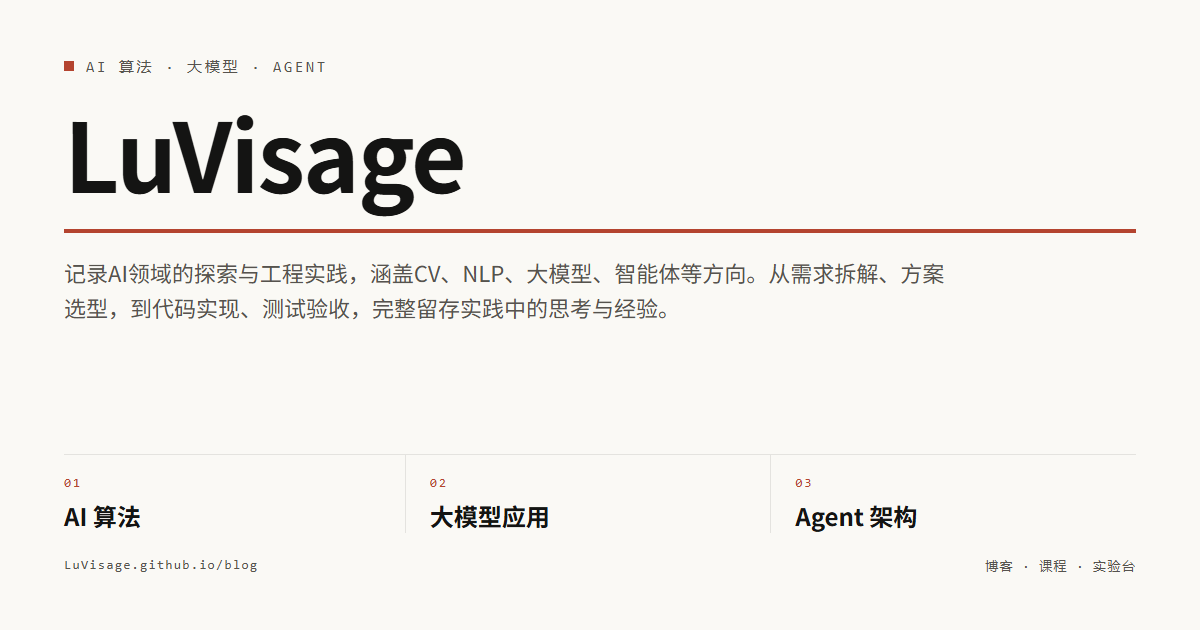
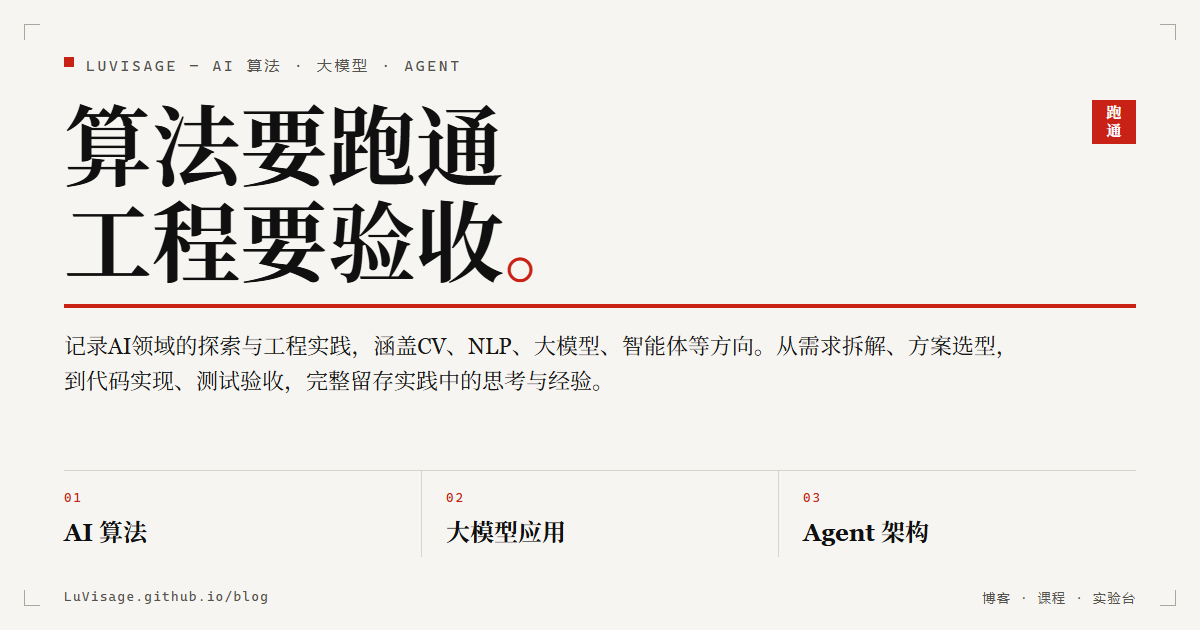
OG 分享卡换嗓统一：og-card 同源产出纸面红嗓排字 png+svg（巨字信条/红规/跑通印），暗色黑带上下墨线收边与 footer 同节奏（§11.59）

diff --git a/app/globals.css b/app/globals.css
@@ -2156,6 +2156,12 @@ figure[data-rehype-pretty-code-figure]:hover {
   background: var(--footer-bg);
   z-index: -1;
 }
+/* 暗色下黑带与页面底色几乎同色，区块边界只剩极弱色阶；
+   上下收一条与 footer 顶边同款的墨线，保住通栏节奏。 */
+.dark .darkband::before {
+  border-top: 1px solid var(--footer-line);
+  border-bottom: 1px solid var(--footer-line);
+}
 .dark-grid { display: grid; grid-template-columns: 7fr 5fr; gap: var(--space-64); align-items: start; }
 .dark-k {
   font-family: var(--font-mono);

diff --git a/SPEC_LEDGER.md b/SPEC_LEDGER.md
@@ -2783,3 +2783,15 @@ aria 与键盘/焦点闭环、storage key 与值形状、时序档位）。
 - 证据：build rc=0（build-band.log）；六闸 rc=0 · 整组 0 FAIL（gate-*-band.log），ZM「首行 top=731」「900px 首屏完整 1 行 / 起 2 行」不变（布局未动，符合预期）；vitals 独跑 VITALS_ONLY='/'（黑带仅首页，MSYS_NO_PATHCONV=1）：2 视图 CLS 0.0000 · 最慢交互 24ms（闸 200ms）· PASS（vitals-band.log）。
 - 目检三张（shots-fig/）：band-band-light（通栏黑带、纸色只留区块上下节奏、左栏 52px 栏距）、band-band-dark（暗色通栏与 footer 同节奏）、band-band-390（窄屏通栏单列、feeds 2+1 换行、无横向溢出）。
 - CRLF 归一：app/globals.css、SPEC_LEDGER.md。
+
+## 11.59 OG 排字图版换嗓统一 + 暗色黑带墨线收边（批次 74）
+
+- 作者批准顺序（「可以就这么做吧」）：先 OG 统一、再暗色黑带收边；D6 内容锁未批解锁 → 不动。
+- OG 实缺陷两层：① public/og-default.svg 仍是旧暗渐变（#1a1a2e→#0f3460 + 灰字圆斑），lesson OG 经 lib/lesson-page.ts:41 在用；② og-card.mjs 自身令牌停在 ZI 旧嗓（#faf9f5 / #b4442f / Space Grotesk），即 og-default.png 也与 A 方向纸面红嗓不一致。lib/ 锁定不动 → 只换资产与生成脚本。
+- 修法：og-card.mjs 重写为当前亮色令牌逐条对应（canvas #f6f5f1 / ink #101010 / prose #161615 / secondary #55534e / hair #d6d4cd / mark #a9a7a0 / red #c82217；宋体展示 + mono 索引 + 黑体 UI 三嗓），绝对坐标骨架一份，同源产出 png（Playwright 截图）与 svg（同坐标 text 基线），两资产由构造不再漂移。版面＝巨字信条「算法要跑通 / 工程要验收。」红句号 + 4px 红规 + 作者原话简介两行 + 三方向栏（mono 红索引）+ 裁切 mark + 跑通红印 + mono 页脚 URL。
+- 基线对齐修正：首版 png 栏名基线比 svg 高 21px（HTML .name top 21 误对 svg 532 基线）→ top 42 复跑，两版目检同版面。
+- 暗色收边：.dark .darkband::before 上下 1px var(--footer-line)（#3a3a38，与 footer 顶边同款）；亮色不加（纸→黑步阶已够强）。计算值实测：暗 border-top 1px rgb(58,58,56)、亮 0px。
+- 证据：build rc=0 · 审计 1164 文件 / 741 文本产物 0 命中（build-og.log）；六闸 rc=0 · 整组 0 FAIL（gate-*-og.log），ZM 首行 top=731 / 完整 1 起 2 不变。vitals 独跑 VITALS_ONLY='/'：首跑 rc=1 FAIL「整轮 0 个带 interactionId 的 event」＝交互腿空转、非超闸；本批改动（OG 资产 + 仅暗色边框）不触首页亮色 DOM，上批同面 vitals-band 有 1 次交互 → 先疑量具偶发，静机复跑 rc=0 PASS（1 次交互 24ms 与上批同值；vitals-og.log 与 vitals-og2.log 双记，不藏首跑 FAIL）。
+- 目检四张：public/og-default.png 与 shots-fig/og-svg-preview.png（render-svg.mjs 光栅化；wrapper.html 在 img-candidates/，量具按 --in 同目录找它，需拷 svg 进去）、band-og-dark（上下墨线收边、通栏节奏与 footer 一致）、band-og-light（亮色无边框、与批 73 同）。
+- 遗留如实记：多数社交平台 OG 抓取不渲染 SVG（Twitter / Facebook / 微信），lesson 分享卡要真正生效需把 lib/lesson-page.ts:41 指到 png——lib 锁定，待另批批准；本批只保证 svg 与 png 同嗓同版面。
+- CRLF 归一：app/globals.css、SPEC_LEDGER.md。
